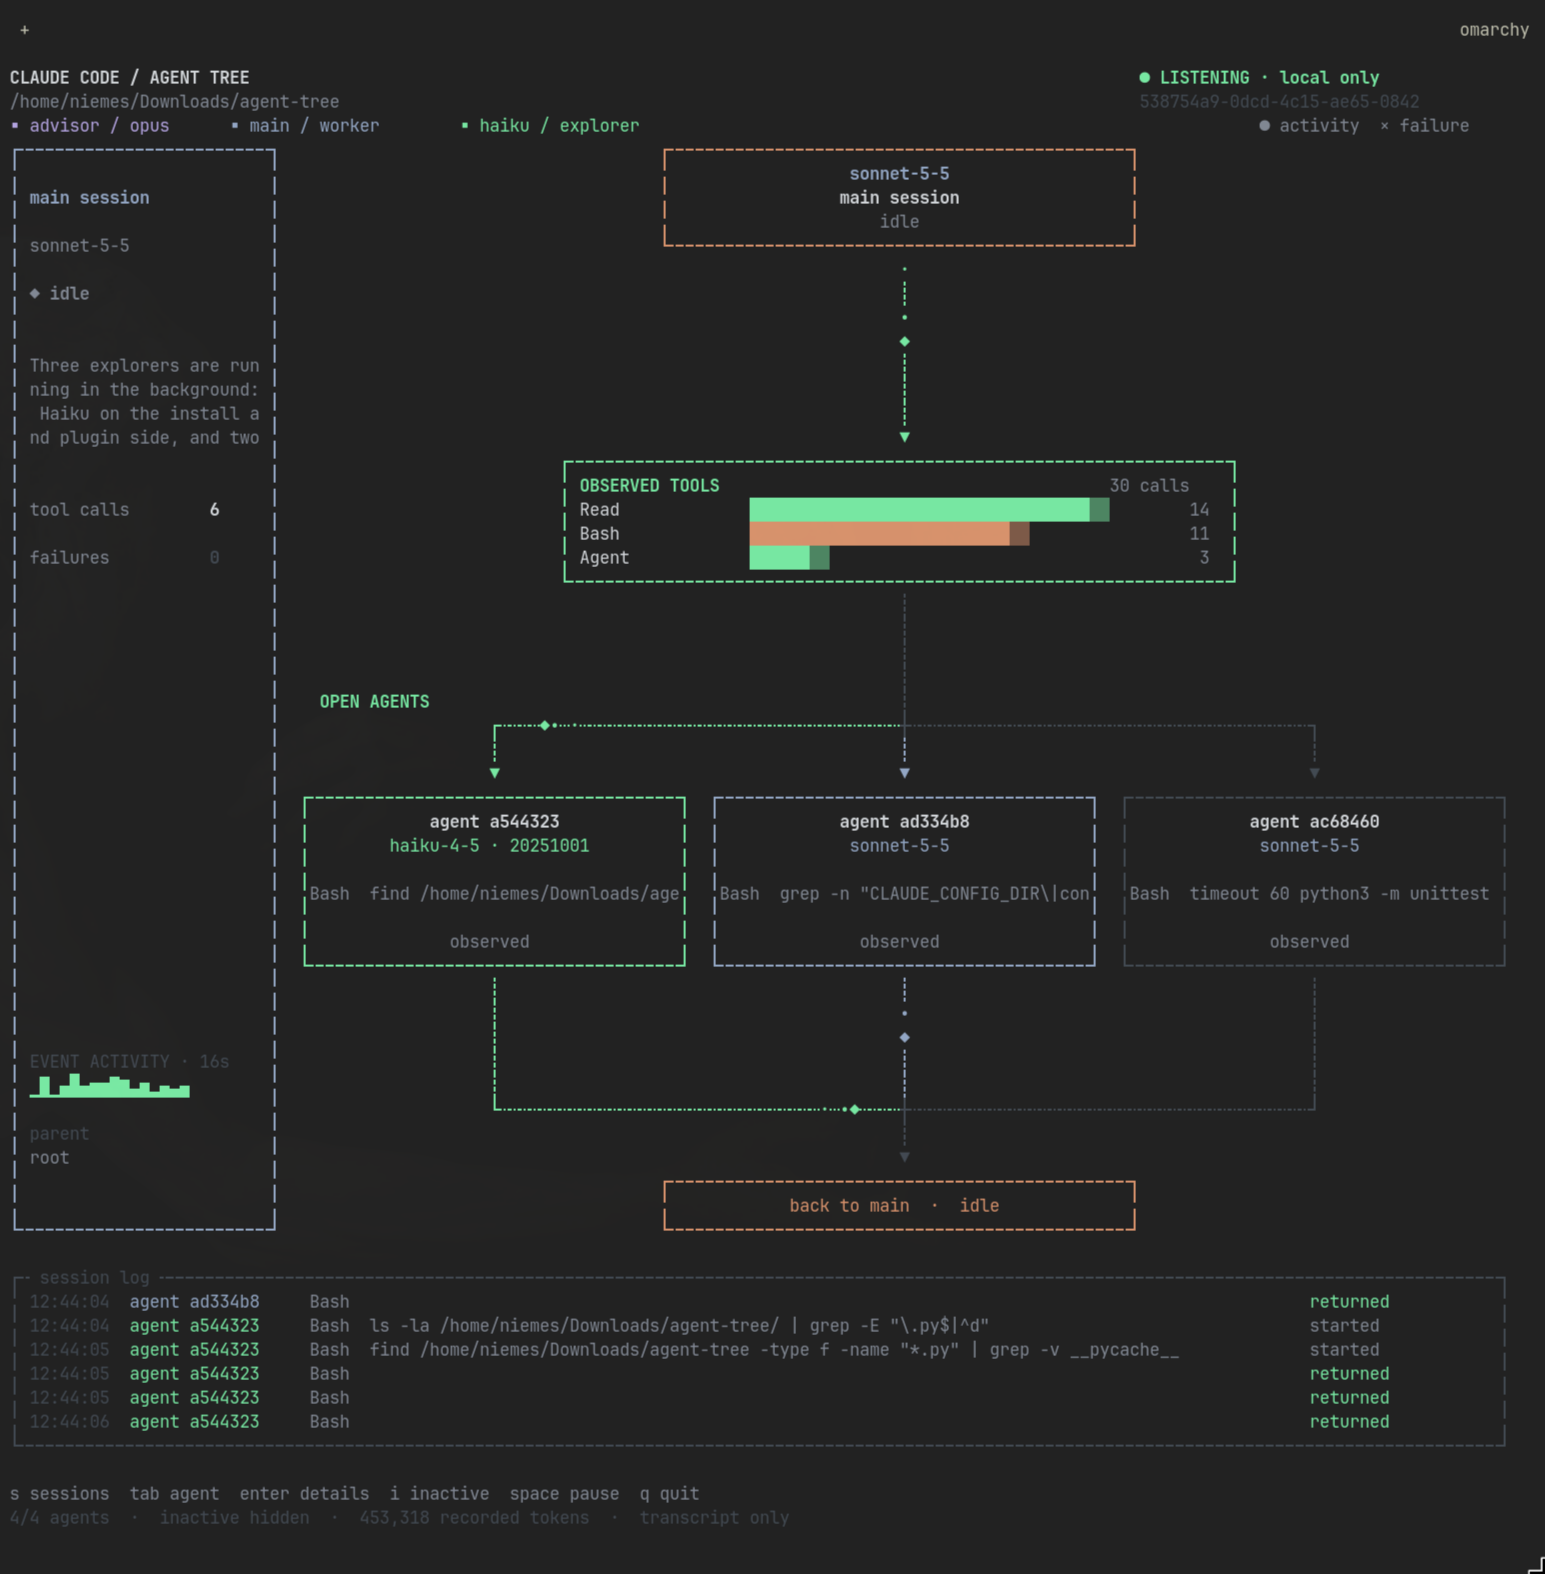
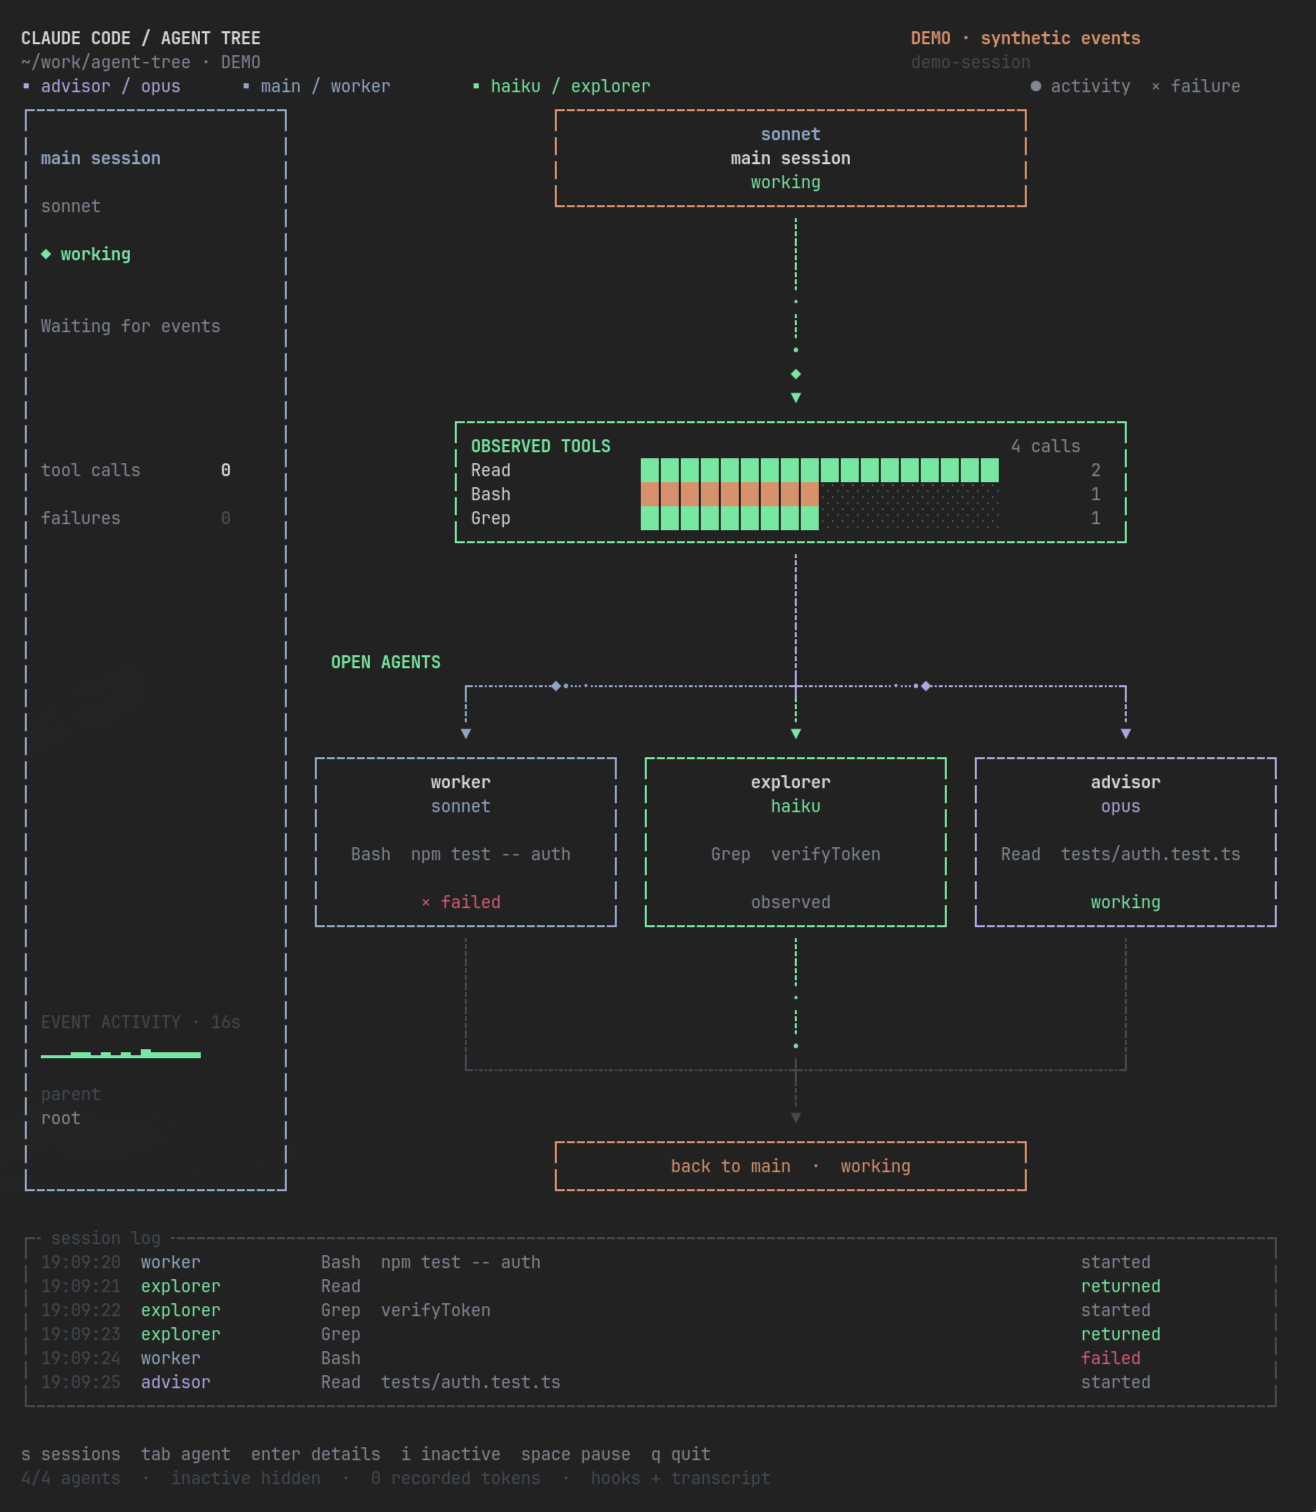
docs: update screenshot to the new bar style

diff --git a/README.md b/README.md
@@ -8,9 +8,9 @@
 
 Python 3.10+ · Linux / macOS (WSL works) · zero dependencies · no network · read-only
 
-![Agent Tree watching a live Claude Code session with three subagents](assets/screenshot.png)
+![Agent Tree in demo mode, with three subagents](assets/screenshot.png)
 
-<sub>A real capture: Agent Tree watching the session that wrote this README.</sub>
+<sub>`--demo` mode: synthetic events, not a live run.</sub>
 
 ## Quick start
 
@@ -48,7 +48,7 @@ It writes ids, tool names and short paths (never prompts, code or output) to `~/
 - The bus between cards means "same session", not a verified parent/child tree.
 - "Recorded tokens" come from message usage. They are not billing.
 - Claude's transcript format is internal and can change.
-- The screenshot is transcript-only. Hook mode is covered by tests, not shown live.
+- The screenshot is `--demo` (synthetic events). Hook mode is covered by tests, not shown live.
 
 ## Tests
 
